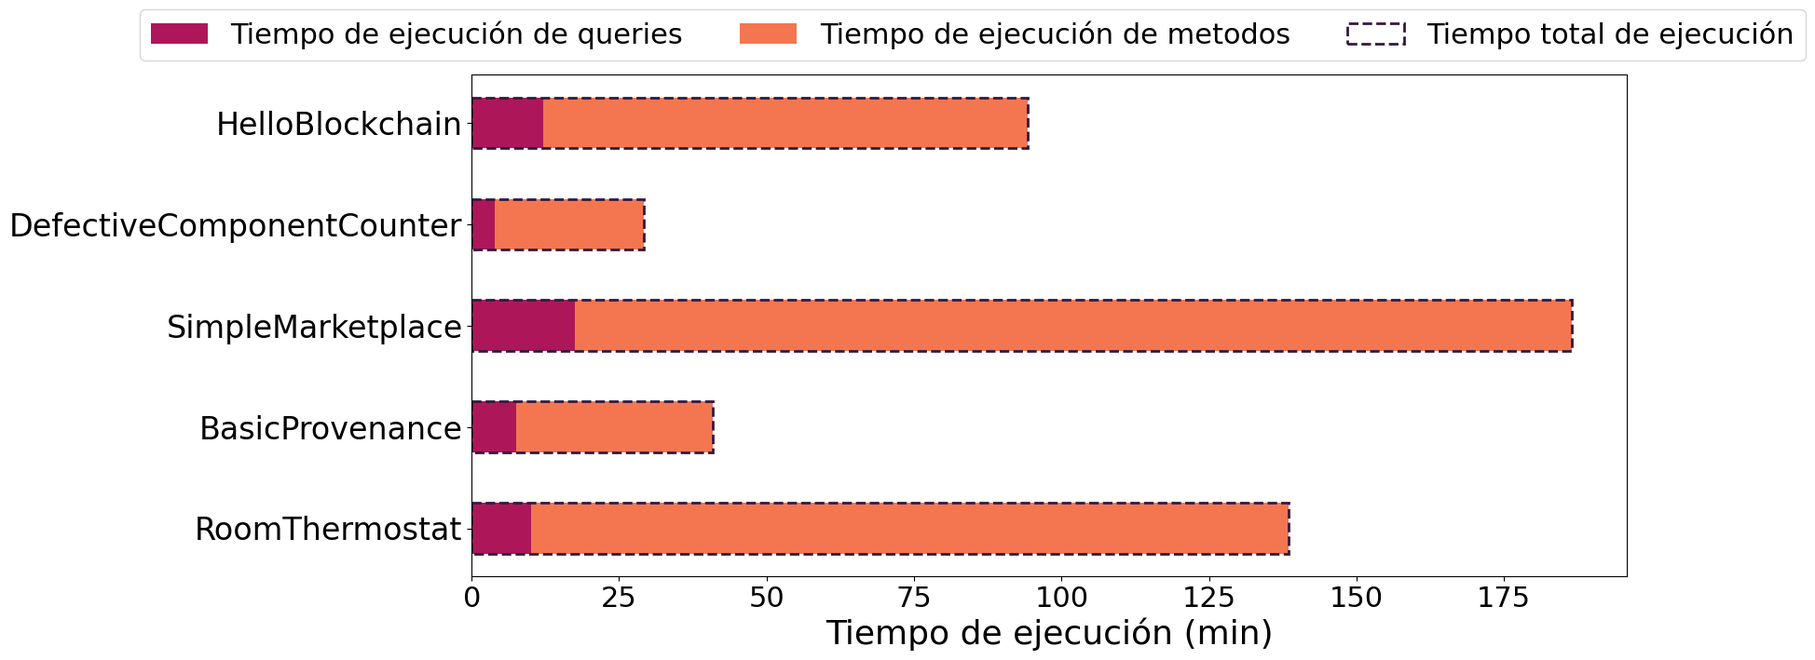
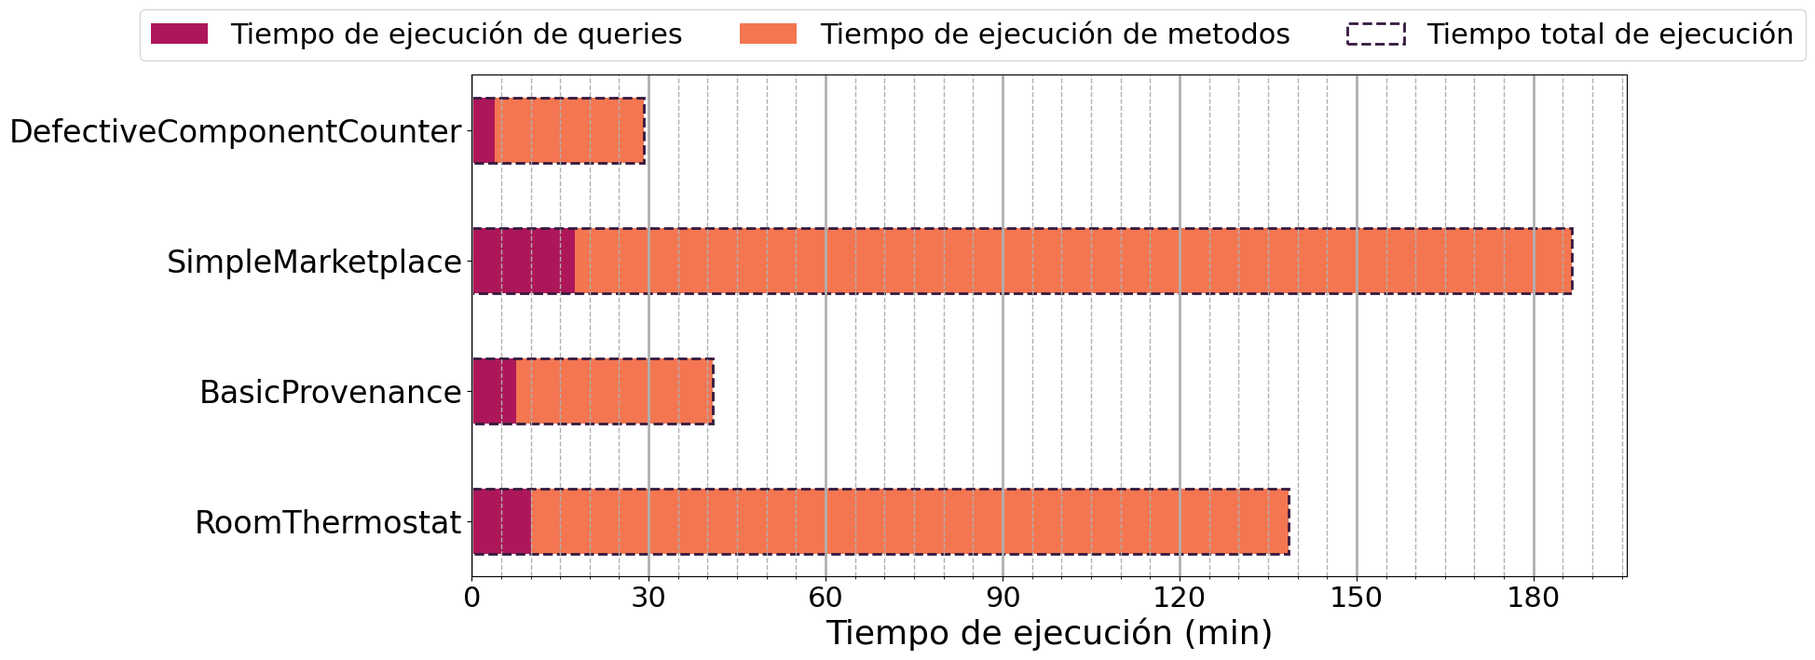
cambios sugeridos

diff --git a/latex/analisis.tex b/latex/analisis.tex
@@ -1,3 +1,31 @@
+En esta sección realizamos algunos análisis sobre el comportamiento y performance de los prototipos implementados.
+Primero realizamos una evaluación manual de la calidad de las abstracciones generadas por el algoritmo clásico y el alternativo.
+Luego, evaluamos el tiempo empleado en promedio de cada algoritmo sobre un benchmark conocido y por último realizamos un análisis sobre cuáles son las partes más costosas en tiempo del prototipo implementado.
+
+Los análisis fueron realizados sobre el benchmark \textit{Microsoft Azure Blockchain Workbench} \cite{azure-benchmark}, un benchmark conocido para el cual ya contabamos con las EPAs correctas debido a que fue utilizado en \cite{predicate-abstraction-for-smart-contract-validation} \cite{torres}.
+Además, realizamos algunos estudios sobre el contrato \texttt{BoundedStack} presentado en la sección \ref{code:solidity-bounded-stack}.
+Los contratos analizados fueron los siguientes:
+
+\begin{center}
+    \begin{tabular}{|l|c|c|}
+        \hline
+        \textbf{Contrato}         & \textbf{Lineas de codigo} & \textbf{Cantidad de estados de la EPA} \\
+        \hline
+        DefectiveComponentCounter & 33                        & 2                                      \\
+        \hline
+        SimpleMarketplace         & 66                        & 4                                      \\
+        \hline
+        BasicProvenance           & 48                        & 3                                      \\
+        \hline
+        RoomThermostat            & 48                        & 3                                      \\
+        \hline
+        BoundedStack              & 28                        & 5                                      \\
+        \hline
+    \end{tabular}
+\end{center}
+
+Los experimentos se efectuaron en una máquina con un procesador Intel Core i7-4770 \@ 3,40GHz x 8, 16 GB RAM, Mesa Intel HD Graphics4600 (HSW GT2) y almacenamiento SSD 256 GB, ejecutando Ubuntu 22.04.3 LTS.
+
 \section{Comparación de las abstracciones generadas entre el algoritmo clásico y el alternativo}
 Como mencionamos en la sección \ref{sec:subaproximacion}, las abstracciones generadas por el algoritmo alternativo no siempre son Enabledness Preserving Abstractions\footnote{Es decir, en algunos casos no cumplen la definición presentada en la sección \ref{definicion-epa}.} de los contratos analizados, sino que son unas subaproximaciones de estas.
 Al mismo tiempo, las EPAs son sobreaproximaciones del comportamiento de los contratos, por lo que el mecanismo resultante del algoritmo alternativo yace en algún lugar intermedio: no es ni sound ni complete.
@@ -5,7 +33,7 @@ Por esto, nos interesa explorar en particular cuáles son las diferencias produc
 Para responder estas preguntas analizamos el desempeño de los prototipos implementados usando ambos algoritmos sobre algunos casos de prueba.
 
 \subsection{Caso \texttt{RoomThermostat}}
-El primer caso que evaluamos fue el contrato \texttt{RoomThermostat} perteneciente al benchmark ``Microsoft Azure Blockchain Workbench" \cite{azure-benchmark}, cuyo código fuente podemos ver en el fragmento de código \ref{fig:rooomthermostat-solidity}.
+El primer caso que evaluamos fue el contrato \texttt{RoomThermostat}, cuyo código fuente podemos ver en el fragmento de código \ref{fig:rooomthermostat-solidity}.
 Es un contrato pequeño, con pocos métodos y un invariante sencillo.
 Para poder emplear el algoritmo clásico sobre este contrato, el invariante propuesto fue el siguiente:
 \begin{lstlisting}[language=Solidity]
@@ -24,15 +52,13 @@ En ambos casos la EPA generada fue la misma, una máquina de estados sencilla de
 
 \begin{figure}
     \centering
-    \begin{subfigure}{0.75\textwidth}
-        \includegraphics[width=\textwidth]{figs/room-thermostate-epa.png}
-        \caption{Enabledness Preserving Abstraction del contrato \texttt{RoomThermostat} }
-        \label{fig:room-thermostat-epa}
-    \end{subfigure}
+    \includegraphics[width=0.75\textwidth]{figs/room-thermostate-epa.png}
+    \caption{Enabledness Preserving Abstraction del contrato \texttt{RoomThermostat} }
+    \label{fig:room-thermostat-epa}
 \end{figure}
 
 \subsection{Caso \texttt{BoundedStack}}
-El siguiente caso que evaluamos fue el ejemplo teórico que expusimos en la sección \ref{sec:subaproximacion}, el contrato \texttt{BoundedStack}, con intención de evidenciar las subaproximaiones realizadas por el algoritmo nuevo.
+El siguiente caso que evaluamos fue el ejemplo teórico que expusimos en la sección \ref{sec:subaproximacion}, el contrato \texttt{BoundedStack}, con intención de evidenciar las subaproximaciones realizadas por el algoritmo nuevo.
 El código del contrato se encuentra en el fragmento de código \ref{code:solidity-bounded-stack}.
 Nos interesa corroborar el comportamiento de ambos algoritmos, si se produce alguna subaproximación, y cuáles.
 
@@ -59,7 +85,7 @@ A la hora de emplear el algoritmo clásico sobre el contrato, el invariante prop
     }
 \end{lstlisting}
 
-Sin embargo, el prototipo desarrollado con el algoritmo clásico no pudo analizar este contrato satisfactoriamente, sino que terminó el analisis por time out.
+Sin embargo, el prototipo desarrollado con el algoritmo clásico no pudo analizar este contrato satisfactoriamente, sino que terminó el analisis por time out luego de 24 horas.
 Esto se debe a que el paso de restringir las instancias del contrato a aquellas que satisfagan el invariante resultó demasiado difícil para el motor de ejecucion simbólica de Manticore.
 Algunos experimentos y análisis intermedios nos hacen creer que se debe a la pobre representación de las variables de tipo \textcolor{cyan}{\texttt{uint256[]}} del mismo.
 Esto significó que terminamos el análisis comparando la abstracción generada por el algoritmo alternativo no con la generada por el algoritmo clásico, sino con una EPA producida manualmente.
@@ -67,17 +93,16 @@ Esto significó que terminamos el análisis comparando la abstracción generada 
 \section{Comparación en tiempo de ejecución entre el algoritmo clásico y el alternativo}
 Otra hipótesis generada durante el desarrollo del algoritmo alternativo fue que el evitar la ejecución de los invariantes mejoraría el tiempo de ejecución.
 Esto se debe a que los invariantes, comparados con las precondiciones de los métodos externos, son propiedades relativamente complejas que además pueden hablar sobre el estado de variables internas de tipos complejos como arrays, mappings, etc.
-Para evaluar esta hipótesis estudiamos el tiempo de ejecución empleado por los prototipos que implementan el algoritmo alternativo y el clásico en Manticore sobre algunos de los contratos pertenecientes al benchmark Microsoft Azure Blockchain Workbench \cite{azure-benchmark}.
+Para evaluar esta hipótesis estudiamos el tiempo de ejecución empleado por los prototipos que implementan el algoritmo alternativo y el clásico en Manticore.
 
-Ya que este mismo benchmark había sido utilizado por Godoy et al. en 2022 \cite{predicate-abstraction-for-smart-contract-validation}, a la hora de experimentar contamos con EPAs de todos los contratos involucrados, por lo que además pudimos usarlas para corroborar la correctitud de las abstracciones generadas.
+Ya que el benchmark que utilizamos había sido utilizado por Godoy et al. en 2022 \cite{predicate-abstraction-for-smart-contract-validation}, a la hora de experimentar contamos con EPAs de todos los contratos involucrados, por lo que además pudimos usarlas para corroborar la correctitud de las abstracciones generadas.
 Los experimentos fueron realizados ejecutando ambos prototipos sobre cada contrato cinco veces y luego tomando el promedio del tiempo total de ejecución.
-Todas las mediciones fueron realizadas en una máquina con un procesador Intel Core i7-4770 \@ 3,40GHz x 8, 16 GB RAM, Mesa Intel HD Graphics4600 (HSW GT2) y almacenamiento SSD 256 GB, ejecutando Ubuntu 22.04.3 LTS.
 
 En la figura \ref{fig:classic-vs-alternativo} podemos ver los resultados del experimento realizado.
 Las mediciones fueron solo realizadas para los contratos \texttt{DefectiveComponentCounter}, \texttt{RoomThermostat}, \texttt{BasicProvenance} y \texttt{SimpleMarketplace} porque como podemos ver el tiempo de ejecución de la implementación del algoritmo clásico nunca fue menor a diez horas.
 A pesar de que en todos los contratos analizados podamos ver una diferencia significativa al emplear el algoritmo alternativo, es importante destacar que los tiempos de ejecución de esta técnica aún se mantuvieron muy altos.
 La mejora en tiempo parecería ser relativamente constante a lo largo de los cuatro contratos analizados, habiendo tardado el algoritmo alternativo alrededor de diez horas menos que el clásico.
-Esta diferencia cercana a constante posiblemente se deba a que todos los contratos eran muy simples (recordemos la baja cantidad de métodos externos en \texttt{SimpleMarketplace} y \texttt{RoomThermostat}), por lo que no se pudo observar la diferencia en comportamiento que habría en contratos más complejos.
+Esta diferencia cercana a constante posiblemente se deba a que todos los contratos eran muy simples, por lo que no se pudo observar la diferencia en comportamiento que habría en contratos más complejos.
 
 \begin{figure}[h]
     \centering
@@ -98,10 +123,9 @@ Por otro lado analizamos el código fuente de Manticore y diferenciamos en disti
 
 La separación de la ejecución del algoritmo en etapas la hicimos en estas dos:
 \begin{enumerate}
-    \item La ejecución simbólica de los métodos
+    \item La ejecución simbólica de los métodos \footnote{Al desplegado simbólico del contrato lo consideramos parte de la ejecución simbólica de los métodos.}
     \item La solución de queries de satisfacibilidad sobre las transiciones en la EPA
 \end{enumerate}
-Donde notoriamente incluimos el desplegado simbólico del contrato en la misma etapa que la ejecución de los métodos.
 Refiriéndonos al algoritmo alternativo, podemos ver que este alterna entre estas dos etapas.
 Nos resulta de interés ver cuál, si alguna, consume la mayor parte del tiempo de ejecución.
 
@@ -121,7 +145,8 @@ Por ejemplo, en el fragmento de códgio \ref{code:getvalueall-modification} pode
 
 \begin{lstlisting}[language=Python,
     label={code:getvalueall-modification},
-    caption={Método \texttt{\_\_get\_value\_all} del modulo \textbf{\texttt{smtlib}} modificado para registrar el tiempo empleado por la llamada al SMT solver. El resaltado indica las líneas agregadas para registrar el tiempo.},
+    caption={Método \texttt{\_\_get\_value\_all} del modulo \textbf{\texttt{smtlib}} modificado para registrar el tiempo empleado por la llamada al SMT solver.
+    El código resaltado indica las líneas agregadas para registrar el tiempo.},
     captionpos=b]
 def __getvalue_all(self, expressions_str: List[str], is_bv: List[bool]) -> Dict[str, int]:
     (*@| \hl{start = time.time()} |@*)
@@ -140,11 +165,8 @@ Por otro lado, los métodos en \textbf{Nivel \texttt{state}} eran métodos que a
 Por último, los métodos del \textbf{Nivel SMT solver} eran ejecutados en diversos momentos del análisis.
 
 Una vez hecha esta separación en etapas del algoritmo y niveles de abstracción, medimos el tiempo total en promedio empleado por cada etapa y cada nivel de abstracción.
-Para esto, al igual que antes, analizamos el rendimiento en los contratos \texttt{DefectiveComponent\allowbreak Counter}, \texttt{RoomThermostat}, \texttt{BasicProvenance}, \texttt{SimpleMarketplace} y \texttt{HelloBlockchain} del benchmark Microsoft Azure Blockchain Workbench \cite{azure-benchmark}.
 Por otro lado, además, calculamos para cada uno de los niveles de abstracción la cantidad de veces que este mismo fue registrado y el tiempo total empleado.
-Esto fue para intentar percibir discrepancias entre los niveles que espérabamos que consumieran la mayoría del tiempo y lo que pudiéramos medir.
-
-\subsection{Resultados}
+Esto fue para intentar percibir discrepancias entre los niveles que esperábamos que consumieran la mayoría del tiempo y lo que pudiéramos medir.
 
 \begin{figure}
     \includegraphics[width=\textwidth]{figs/categories-bar-graph.png}
@@ -156,19 +178,19 @@ Esto fue para intentar percibir discrepancias entre los niveles que espérabamos
 En la figura \ref{fig:tiempo-categorias} podemos ver las mediciones obtenidas sobre el tiempo empleado por las dos etapas del algoritmo.
 Se ve que la gran mayoría del tiempo empleado durante la generación de EPAs con el algoritmo involucrado fue consumido por la ejecución simbólica de los métodos.
 La resolución de predicados para consultar por la presencia de transiciones en la EPA, en cambio, fue comparativamente pequeña.
-Por ejemplo, para el contrato \texttt{HelloBlockchain}, podemos ver que a pesar que el tiempo total promedió cercano los 94 minutos, la etapa de resolución de queries demoró tan sólo valores cercanos a los 12 minutos.
-Por otro lado, la suma del tiempo empleado en promedio por ambas etapas resulta a simple vista idéntico al tiempo total promedio que se pudo medir, por lo que tampoco observamos un consumo inusualmente alto de tiempo por algún otro aspecto del análisis sin considerar.
+Por ejemplo, para el contrato \texttt{BasicProvenance}, podemos ver que a pesar que el promedio del tiempo total fue cercano a los 40 minutos, la etapa de resolución de queries demoró tan sólo valores cercanos a los 7 minutos.
+Por otro lado, la suma del tiempo empleado en promedio por ambas etapas resulta a simple vista idéntico al tiempo total promedio que se pudo medir, por lo que tampoco observamos un consumo inusualmente alto de tiempo por algún otro aspecto del análisis que no hayamos considerado.
 
 En la tabla \ref{tab:performance} podemos ver un caso de estudio de los resultados obtenidos en las mediciones del tiempo empleado en cada nivel de abstracción de los métodos de Manticore.
-Nos limitamos a analizar los valores obtenidos para el contrato \texttt{HelloBlockchain} para no mezclar los valores de distintos contratos, debido a que nos interesa señalar las relaciones entre los valores para algunos de los métodos.
-Haciendo memoria sobre el análisis de la figura \ref{fig:tiempo-categorias}, podemos ver que los aproximadamente 713 segundos empleados por el método \texttt{generateTestCases}, que es el más externo de todos, representan casi la totalidad (12 minutos) del tiempo empleado por la etapa de solución de queries del programa.
+Nos limitamos a analizar los valores obtenidos para el contrato \texttt{BasicProvenance} para no mezclar los valores de distintos contratos, debido a que nos interesa señalar las relaciones entre los valores para algunos de los métodos.
+Haciendo memoria sobre el análisis de la figura \ref{fig:tiempo-categorias}, podemos ver que los aproximadamente 450 segundos empleados por el método \texttt{generateTestCases}, que es el más externo de todos, representan casi la totalidad (7.5 minutos) del tiempo empleado por la etapa de solución de queries del programa.
 De hecho, los métodos \texttt{solve\_one\_n\_batched} y \texttt{get\_value\_in\_batch}, que pertenecen a un nivel de abstracción menor, siguen siendo responsables por la mayoría del tiempo empleado (y si observamos el número de veces que cada uno fue llamado, a fines del análisis que estamos haciendo ambos métodos resultan prácticamente iguales).
 Sin embargo, al realizar el salto a los métodos de \textbf{Nivel SMT solver}, vemos que comparativamente estos casi ni aportaron al tiempo empleado.
-Los tres métodos \texttt{\_getvalue\_all}, \texttt{\_is\_sat} y \texttt{\_getvalue}, todos llamados de manera directa por los métodos del nivel superior, apenas aportan 4 segundos de los 12 minutos involucrados.
+Los tres métodos \texttt{\_getvalue\_all}, \texttt{\_is\_sat} y \texttt{\_getvalue}, todos llamados de manera directa por los métodos del nivel superior, apenas aportan 5 segundos de los 7.5 minutos involucrados.
 
 De aquí podemos intentar obtener dos conclusiones.
 O bien las llamadas al SMT solver funcionan de una manera asincrónica, que no pudimos capturar en nuestras mediciones, o bien en efecto la mayoría del tiempo consumido por consultas a Manticore es empleado no en tiempo de procesamiento del SMT solver, sino en alguna etapa de la aplicación misma (que no fuimos capaces de medir).
-Considerando ya que la mayor parte del tiempo de ejecución de la aplicación fue consumido por la etapa de ejecución simbólica, y no por la de resolución de queries, es posible que el preprocesamiento de las condiciones simbólicas de Manticore, construido durante la etapa de ejecución simbólica, sea extraordinariamente complejo y por ende caro en tiempo de ejecución.
+Considerando que la mayor parte del tiempo de ejecución de la aplicación fue consumido por la etapa de ejecución simbólica, y no por la de resolución de queries, es posible que el preprocesamiento de las condiciones simbólicas de Manticore, construido durante la etapa de ejecución simbólica, sea extraordinariamente complejo y por ende caro en tiempo de ejecución.
 Además, un rudimentario y primer análisis del código involucrado sugiere que los llamados realizados al SMT solver son completamente sincrónicos, aunque no se pudo realizar un experimento para corroborar ninguna de estas dos hipótesis.
 
 
@@ -178,20 +200,74 @@ Además, un rudimentario y primer análisis del código involucrado sugiere que 
 \definecolor{color3}{rgb}{0.7, 0.7, 0.7} % Dark gray
 
 \begin{table}[ht]
-    \centering
-    \begin{tabular}{l @{\hskip 30pt} r @{\hskip 30pt} r}
-        \toprule
-        \textbf{Método de Manticore}                      & \textbf{Número de llamados} & \textbf{Tiempo empleado (s)} \\
-        \midrule
-        \rowcolor{color1} \texttt{\_getvalue}             & 6                           & 0.00458                      \\
-        \rowcolor{color1} \texttt{\_is\_sat}              & 92                          & 0.52989                      \\
-        \rowcolor{color2} \texttt{state.can\_be\_true}    & 24                          & 0.13410                      \\
-        \rowcolor{color1} \texttt{\_getvalue\_all}        & 32                          & 3.73966                      \\
-        \rowcolor{color2} \texttt{get\_value\_in\_batch}  & 54                          & 712.47606                    \\
-        \rowcolor{color2} \texttt{solve\_one\_n\_batched} & 54                          & 713.05950                    \\
-        \rowcolor{color3} \texttt{generateTestCases}      & 3                           & 713.35846                    \\
-        \bottomrule
-    \end{tabular}
-    \caption{Tiempo empleado por los métodos de Manticore involucrados en las queries por transiciones en la EPA para el contrato \texttt{HelloBlockchain}. En el color más oscuro los métodos del \textbf{Nivel Externo}, en el color intermedio los del \textbf{Nivel \texttt{state}} y en el más claro los del \textbf{Nivel SMT solver}.}
-    \label{tab:performance}
+    \begin{minipage}{0.95\textwidth}
+        \centering
+        \begin{tabular}[t]{l @{\hskip 30pt} r @{\hskip 30pt} r}
+            \toprule
+            \textbf{Método de Manticore}                      & \textbf{Número de llamados} & \textbf{Tiempo empleado (s)} \\
+            \midrule
+            \rowcolor{color1} \texttt{\_getvalue}             & 4                           & 0.00188                      \\
+            \rowcolor{color1} \texttt{\_is\_sat}              & 80                          & 0.48341                      \\
+            \rowcolor{color2} \texttt{state.can\_be\_true}    & 21                          & 0.21036                      \\
+            \rowcolor{color1} \texttt{\_getvalue\_all}        & 30                          & 1.62389                      \\
+            \rowcolor{color2} \texttt{get\_value\_in\_batch}  & 54                          & 230.79537                    \\
+            \rowcolor{color2} \texttt{solve\_one\_n\_batched} & 54                          & 231.65494                    \\
+            \rowcolor{color3} \texttt{generateTestCases}      & 3                           & 231.87251                    \\
+            \bottomrule
+        \end{tabular}
+        \caption{Tiempo empleado por los métodos de Manticore para el contrato \texttt{DefectiveComponentCounter}.}
+        \label{tab:performance}
+    \end{minipage}
+    \begin{minipage}{0.95\textwidth}
+        \centering
+        \begin{tabular}[t]{l @{\hskip 30pt} r @{\hskip 30pt} r}
+            \toprule
+            \textbf{Método de Manticore}                      & \textbf{Número de llamados} & \textbf{Tiempo empleado (s)} \\
+            \midrule
+            \rowcolor{color1} \texttt{\_getvalue}             & 110                         & 2.16616                      \\
+            \rowcolor{color1} \texttt{\_is\_sat}              & 370                         & 9.89551                      \\
+            \rowcolor{color2} \texttt{state.can\_be\_true}    & 61                          & 0.63042                      \\
+            \rowcolor{color1} \texttt{\_getvalue\_all}        & 55                          & 4.25464                      \\
+            \rowcolor{color2} \texttt{get\_value\_in\_batch}  & 84                          & 1028.78724                   \\
+            \rowcolor{color2} \texttt{solve\_one\_n\_batched} & 84                          & 1029.55111                   \\
+            \rowcolor{color3} \texttt{generateTestCases}      & 4                           & 1030.08048                   \\
+            \bottomrule
+        \end{tabular}
+        \caption{Tiempo empleado por los métodos de Manticore para el contrato \texttt{SimpleMarketplace}.}
+    \end{minipage}
+    \begin{minipage}{0.95\textwidth}
+        \centering
+        \begin{tabular}[t]{l @{\hskip 30pt} r @{\hskip 30pt} r}
+            \toprule
+            \textbf{Método de Manticore}                      & \textbf{Número de llamados} & \textbf{Tiempo empleado (s)} \\
+            \midrule
+            \rowcolor{color1} \texttt{\_getvalue}             & 249                         & 16.3826                      \\
+            \rowcolor{color1} \texttt{\_is\_sat}              & 684                         & 62.46842                     \\
+            \rowcolor{color2} \texttt{state.can\_be\_true}    & 89                          & 2.59814                      \\
+            \rowcolor{color1} \texttt{\_getvalue\_all}        & 59                          & 3.97965                      \\
+            \rowcolor{color2} \texttt{get\_value\_in\_batch}  & 88                          & 583.78606                    \\
+            \rowcolor{color2} \texttt{solve\_one\_n\_batched} & 88                          & 584.46269                    \\
+            \rowcolor{color3} \texttt{generateTestCases}      & 4                           & 584.95501                    \\
+            \bottomrule
+        \end{tabular}
+        \caption{Tiempo empleado por los métodos de Manticore para el contrato \texttt{RoomThermostat}.}
+    \end{minipage}
+    \begin{minipage}{0.95\textwidth}
+        \centering
+        \begin{tabular}[t]{l @{\hskip 30pt} r @{\hskip 30pt} r}
+            \toprule
+            \textbf{Método de Manticore}                      & \textbf{Número de llamados} & \textbf{Tiempo empleado (s)} \\
+            \midrule
+            \rowcolor{color1} \texttt{\_getvalue}             & 62                          & 0.4647                       \\
+            \rowcolor{color1} \texttt{\_is\_sat}              & 196                         & 2.24389                      \\
+            \rowcolor{color2} \texttt{state.can\_be\_true}    & 21                          & 0.19231                      \\
+            \rowcolor{color1} \texttt{\_getvalue\_all}        & 31                          & 2.33352                      \\
+            \rowcolor{color2} \texttt{get\_value\_in\_batch}  & 54                          & 449.60244                    \\
+            \rowcolor{color2} \texttt{solve\_one\_n\_batched} & 54                          & 450.04921                    \\
+            \rowcolor{color3} \texttt{generateTestCases}      & 3                           & 450.27618                    \\
+            \bottomrule
+        \end{tabular}
+        \caption{Tiempo empleado por los métodos de Manticore para el contrato \texttt{BasicProvenance}.}
+    \end{minipage}
+    \caption*{Tiempo empleado por los métodos de Manticore involucrados en las queries por transiciones en la EPA para los distintos contratos. En el color más oscuro los métodos del \textbf{Nivel Externo}, en el color intermedio los del \textbf{Nivel \texttt{state}} y en el más claro los del \textbf{Nivel SMT solver}}
 \end{table}

diff --git a/latex/diferencias.tex b/latex/diferencias.tex
@@ -5,13 +5,6 @@ En cambio, sólo puede considerarse un subconjunto de los estados que la herrami
 Consideremos el siguiente ejemplo, el contrato \texttt{BoundedStack}, cuyo código podemos ver en el fragmento de código \ref{code:solidity-bounded-stack}.
 Este contrato consiste en una simple implementación de una pila como estructura de datos, con la peculiaridad de que la pila cuenta con un tamaño máximo.
 El contrato tiene sólo dos métodos externos: \textcolor{orange}{\texttt{push}} y \textcolor{orange}{\texttt{pop}}.
-La EPA de este contrato por otro lado también es bastante sencilla, y la podemos ver en la imagen \ref{fig:bounded-stack-epa}.
-Por fuera de los estados \textbf{init} y \textbf{vacio}, contamos con solo tres estados alcanzables, que son \textbf{\_push}, \textbf{\_pop} y \textbf{\_push\_pop}.
-El estado \textbf{\_push} se corresponde con la pila vacía, y es el que se produce al desplegar el contrato o luego de ejecutar \textcolor{orange}{\texttt{pop}} reiteradas veces.
-Cuando la pila tiene elementos pero no está llena se encuentra en el estado \textbf{\_push\_pop}, al que se puede llegar tanto desde sí mismo, como desde \textbf{\_push} y desde \textbf{\_pop}.
-Finalmente, el estado \textbf{\_pop} se corresponde con la pila llena, y se puede llegar tanto desde \textbf{\_push} (si el tamaño de la pila fuese uno) o desde \textbf{\_push\_pop}, pero no desde el constructor.
-Notoriamente, a menos que el contrato sea deployeado con un tamaño máximo de cero, nunca será posible alcanzar el estado \textbf{\_vacio}.
-
 \begin{lstlisting}[language=Solidity, label={code:solidity-bounded-stack}, caption={Contrato Inteligente \texttt{BoundedStack} en Solidity},captionpos=b]
 contract SizedStack {
     uint256 public size;
@@ -42,11 +35,31 @@ contract SizedStack {
     }
 }
 \end{lstlisting}
-
+La EPA de este contrato por otro lado también es bastante sencilla, y la podemos ver en la imagen \ref{fig:bounded-stack-epa}.
+Por fuera de los estados \textbf{init} y \textbf{vacio}, contamos con solo tres estados alcanzables, que son \textbf{\_push}, \textbf{\_pop} y \textbf{\_push\_pop}.
+El estado \textbf{\_push} se corresponde con la pila vacía, y es el que se produce al desplegar el contrato o luego de ejecutar \textcolor{orange}{\texttt{pop}} reiteradas veces.
+Cuando la pila tiene elementos pero no está llena se encuentra en el estado \textbf{\_push\_pop}, al que se puede llegar tanto desde sí mismo, como desde \textbf{\_push} y desde \textbf{\_pop}.
+Finalmente, el estado \textbf{\_pop} se corresponde con la pila llena, y se puede llegar tanto desde \textbf{\_push} (si el tamaño de la pila fuese uno) o desde \textbf{\_push\_pop}, pero no desde el constructor.
+Notoriamente, a menos que el contrato sea deployeado con un tamaño máximo de cero, nunca será posible alcanzar el estado \textbf{\_vacio}.
 
 Este es un buen ejemplo para observar la limitación introducida por el algoritmo alternativo al no explorar realmente todas las ejecuciones posibles de un método.
 Como se representa en la figura \ref{fig:bounded-stack-bad-epa}, veremos que es posible que el análisis del contrato \texttt{BoundedStack} por el algoritmo alternativo no pueda encontrar algunas de las transiciones presentes en la EPA, dependiendo del orden en el que elija ejecutar los métodos del contrato.
 Realicemos manualmente la exploración que realizaría el algoritmo para este contrato y veamos que es posible llegar al resultado presentado en la figura \ref{fig:bounded-stack-bad-epa}, en el que algunas transiciones son omitidas de la EPA.
+\begin{figure}[H]
+    \centering
+    \begin{subfigure}{0.4\textwidth}
+        {\includegraphics[width=\textwidth]{figs/bounded-stack-good-epa.png}}
+        \caption{Enabledness Preserving Abstraction del contrato \texttt{BoundedStack}}
+        \label{fig:bounded-stack-epa}
+    \end{subfigure}
+    \hfill
+    \begin{subfigure}{0.4\textwidth}
+        {\includegraphics[width=\textwidth]{figs/bonded-stack-bad-epa.png}}
+        \caption{EPA errónea del contrato \texttt{BoundedStack} generada por el algoritmo alternativo.
+            No se encuentran presentes las transiciones \textbf{\_pop} a \textbf{\_push\_pop} mediante \textcolor{orange}{\texttt{pop}} ni \textbf{\_push\_pop} a \textbf{\_push\_pop} mediante \textcolor{orange}{\texttt{pop}}.}
+        \label{fig:bounded-stack-bad-epa}
+    \end{subfigure}
+\end{figure}
 
 El algoritmo explora los estados alcanzables comenzando desde el constructor.
 Como vimos en la EPA de \texttt{BoundedStack}, los estados que resultan alcanzables son \textbf{\_push} y \textbf{vacio}.
@@ -65,19 +78,3 @@ Sin embargo, el algoritmo no presta atención a cuál fue la traza de métodos e
 Esto significa que la función de transición $\Delta$ quedará definida en $\Delta(\textbf{\_push\_pop},\textcolor{orange}{\texttt{pop}}) = \textbf{\_push}$ y $\Delta(\textbf{\_pop},\textcolor{orange}{\texttt{pop}}) = \textbf{\_push}$.
 De aquí en adelante la ejecución del algoritmo proseguirá hasta terminar con (al menos) esas dos transiciones faltantes.
 
-
-\begin{figure}
-    \centering
-    \begin{subfigure}{0.45\textwidth}
-        {\includegraphics[width=\textwidth]{figs/bounded-stack-good-epa.png}}
-        \caption{Enabledness Preserving Abstraction del contrato \texttt{BoundedStack}}
-        \label{fig:bounded-stack-epa}
-    \end{subfigure}
-    \hfill
-    \begin{subfigure}{0.45\textwidth}
-        {\includegraphics[width=\textwidth]{figs/bonded-stack-bad-epa.png}}
-        \caption{EPA errónea del contrato \texttt{BoundedStack} generada por el algoritmo alternativo.
-            No se encuentran presentes las transiciones \textbf{\_pop} a \textbf{\_push\_pop} mediante \textcolor{orange}{\texttt{pop}} ni \textbf{\_push\_pop} a \textbf{\_push\_pop} mediante \textcolor{orange}{\texttt{pop}}.}
-        \label{fig:bounded-stack-bad-epa}
-    \end{subfigure}
-\end{figure}

diff --git a/latex/conclusiones.tex b/latex/conclusiones.tex
@@ -7,16 +7,16 @@ Vimos las limitaciones de este nuevo algoritmo frente a cierto tipo de contratos
 Pudimos contrastar la performance en tiempo del algoritmo novedoso contra el algoritmo de construcción de EPAs clásico para ejemplos simples, y obtuvimos que el algoritmo novedoso presentaba grandes mejoras sobre el clásico al implementar ambos con Manticore, aunque el tiempo total de ejecución de este algoritmo seguía sin resultar satisfactorio.
 
 Al buscar los principales culpables de la alta cantidad de tiempo empleado por el prototipo implementado, en busca de optimizaciones, identificamos que la etapa responsable de la mayoría del tiempo de ejecución	era la de ejecución simbólica de métodos de los contratos.
-Esta etapa asimismo resultaba la más difícil de analizar (y por ende de optimizar), debido a cómo se encontraba programada.
+Esta etapa asimismo resultaba la más difícil de analizar (y por ende de optimizar), debido a los patrones de asignación dinámica y multithreading que empleaba.
 Por otro lado, realizamos un análisis evaluando si la mayoría del tiempo era consumido por Manticore mismo o por los programas de SMT solving, y obtuvimos resultados que sugieren que este fuera consumido por los procesos de Manticore.
 
-Consideramos que áun existen algunas líneas que se pueden explorar en términos de optimización en tiempo de la herramienta implementada.
+Consideramos que áun existen algunas líneas que se pueden explorar en términos de optimización en tiempo del prototipo implementado.
 Por un lado, podría indagarse más profundo en el comportamiento de Manticore, intentando observar cuáles son las consultas que realiza a los programas de SMT solving.
 Por otro lado, explorar el impacto que tiene la explosión de estados producida por la presencia de múltiples \texttt{accounts} durante los análisis en el tiempo de ejecución de Manticore puede proveer un mayor entendimiento, además de ser un punto de partida para explorar técnicas que supriman esta misma explosión.
 
 Creemos que una línea de investigación futura es el uso de los callbacks de la API de manticore para realizar un análisis en el que se avanza de a un único \textcolor{cyan}{\texttt{state}} por vez, más similar a las estrategias clásicas de construcción de EPAs.
-Por otro lado, es posible que la capacidad de emular blockchains enteras de Manticore le permita encontrar propiedades en las abstracciones que le resulten más difíciles a las otras herramientas.
-Creemos que analizar esta hipótesis podría ser valioso para evaluar el valor de la estrategia presentada en este trabajo.
+Por otro lado, es posible que la capacidad de emular blockchains enteras de Manticore le permita encontrar propiedades en las abstracciones que le resulten más difíciles a otras herramienta que analizan un único contrato.
+Creemos que analizar esta hipótesis podría ser valioso para evaluar plenamente la estrategia presentada en este trabajo.
 
 \section{Trabajo relacionado}
 Desde hace un tiempo se emplea abstracción por predicados, similares a las de este trabajo, para realizar verificación de programas \cite{predicate-abstraction-for-verification}.

diff --git a/latex/preliminares.tex b/latex/preliminares.tex
@@ -33,7 +33,7 @@ Si lo que se busca es generar casos de prueba, la ejecución simbólica permite 
 A la hora de econtrar defectos, los valores concretos ofrecidos por ejecución simbólica permiten corroborar y depurar la presencia de bugs al ejecutarlos concretamente, en un contexto distinto a la ejecución simbólica que los generó.
 En el fragmento de código \ref{code:symb-exec-example} y en la figura \ref{fig:symb-tree-example} podemos ver una función sencilla y su árbol de ejecución simbólica asociado.
 
-Dada una \textit{path condition} (condición de camino), que significa la fórmula booleana mencionada, la generación de valores de entrada concretos que la satisfagan se basa típicamente en un SMT (Satisfibality Modulo Theory) solver.
+Dada una condición de camino, que es la fórmula booleana mencionada, la generación de valores de entrada concretos que la satisfagan se basa típicamente en un SMT (Satisfibality Modulo Theory) solver.
 La resolución de condiciones es uno de los principales desafíos que enfrenta la ejecución simbólica.
 Los SMT solvers escalan y permiten resolver combinaciones complejas de condiciones sobre cientos de variables.
 Sin embargo, ciertos elementos presentes en código comúnmente analizado, como la aritmética no lineal suelen ser un obstáculo en la eficiencia.
@@ -174,7 +174,7 @@ Este último, etiquetado ``\texttt{vacio}'' indica que ningún método se encuen
 
 \begin{figure}
     \centering
-    \includegraphics[width=0.45\textwidth]{figs/simple-merketplace-epa.png}
+    \includegraphics[width=0.3\textwidth]{figs/simple-merketplace-epa.png}
     \caption{EPA de \texttt{SimpleMarketplace}. Las etiquetas en los estados indican los métodos que se encuentran habilitados. Las etiquetas en las transiciones indican el método por el que ocurre la transición.}
     \label{fig:epa-example}
 \end{figure}

diff --git a/latex/motivacion.tex b/latex/motivacion.tex
@@ -38,8 +38,8 @@ Sospechando que la causa de este estado ``\texttt{Vacío}'' en realidad son deta
 
 \begin{figure}[h]
     \centering
-    \includegraphics[width=0.75\textwidth]{figs/crowdfunding-time-epa.png}
-    \caption{Abstracción del contrato \texttt{Crowdfunding} basada en la EPA, que además modela el paso del tiempo.}
+    \includegraphics[width=0.70\textwidth]{figs/crowdfunding-time-epa.png}
+    \caption{Abstracción EPA del contrato \texttt{Crowdfunding}, con modelado del paso del tiempo.}
     \label{fig:crowdfunding-time-epa}
 \end{figure}
 

diff --git a/latex/tesis.tex b/latex/tesis.tex
@@ -1,9 +1,9 @@
 %!LW recipe=xelatex -> biber -> xelatex*2
 \PassOptionsToPackage{table}{xcolor} % to go around conflict in the options used somewhere else
 
-\documentclass[11pt,a4paper,twoside]{tesis}
+%\documentclass[11pt,a4paper,twoside]{tesis}
 % SI NO PENSAS IMPRIMIRLO EN FORMATO LIBRO PODES USAR
-%\documentclass[11pt,a4paper]{tesis}
+\documentclass[11pt,a4paper]{tesis}
 
 \usepackage{graphicx}
 \usepackage[utf8]{inputenc}
